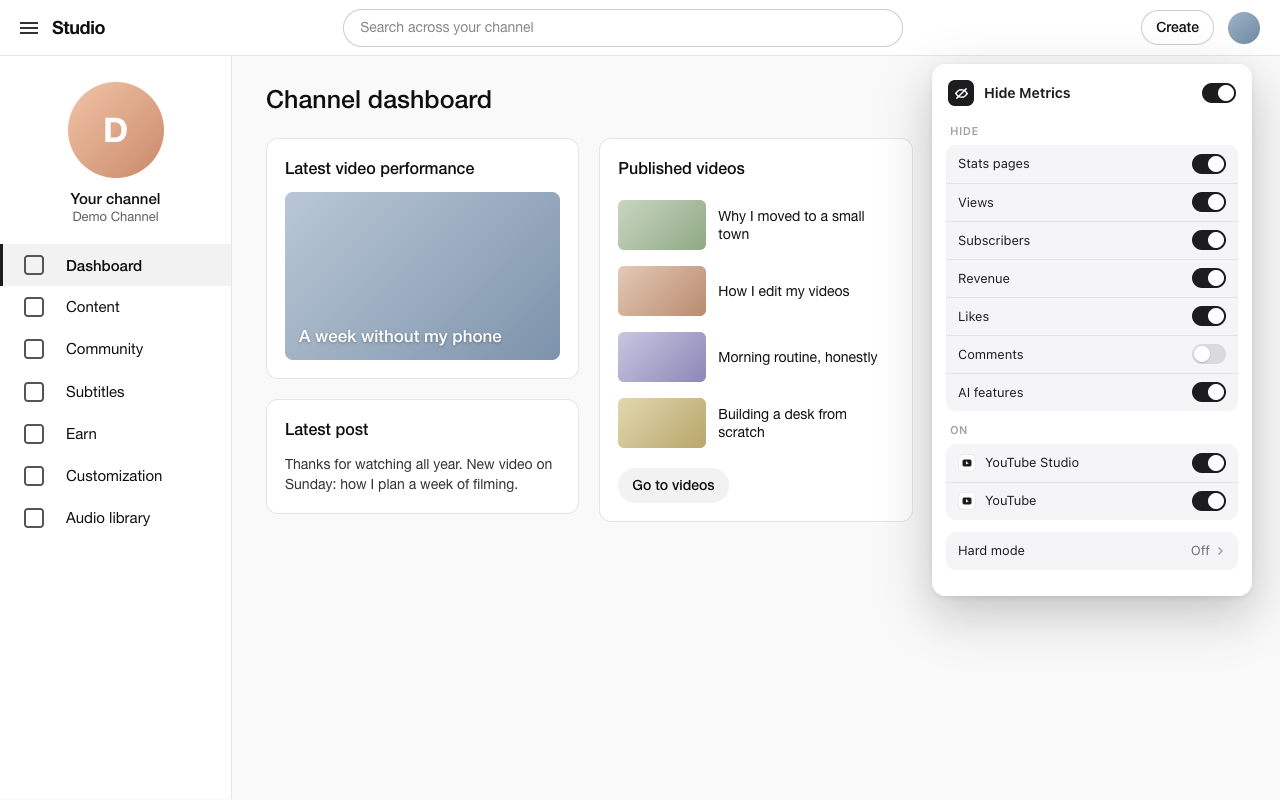
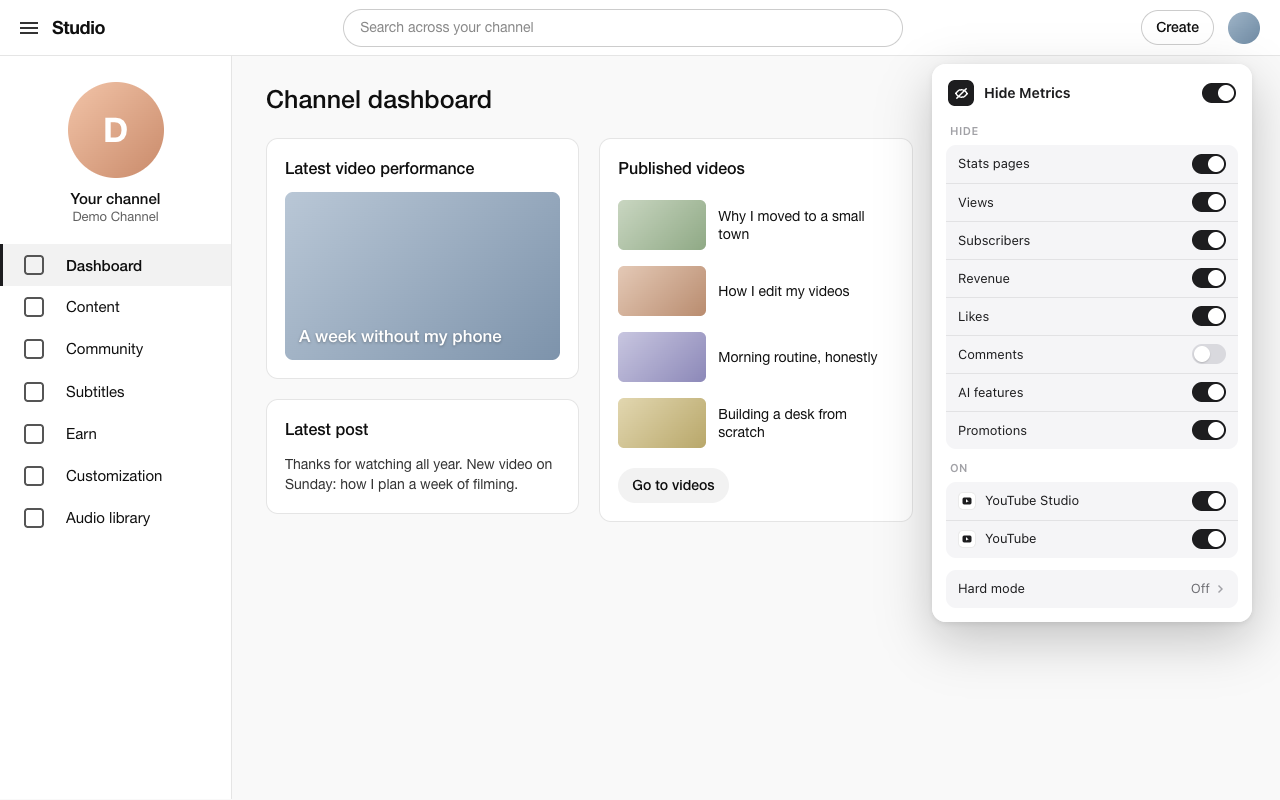
Insights follow your switches when Stats pages is off
With Stats pages off, Insights opens. Its cards carry no marker of what a
number is, only an English title, so cards are now hidden by title
('Views', 'Estimated revenue', 'Likes vs. dislikes'...) when the matching
switch is on (the author's choice; in other Studio languages they stay
visible). The realtime and live subscriber count pages follow Views and
Subscribers by their address. The Ask Studio card's empty frame now hides
with AI features.

Docs, store listing, privacy policy and screenshots updated for this and
for the Promotions switch.

diff --git a/src/sites/youtube-studio.js b/src/sites/youtube-studio.js
@@ -23,6 +23,7 @@
   ];
   // Latest post: likes and comments as two unlabeled rows.
   const postStats = 'ytcd-post-stats-item';
+  const isStatsPage = (url) => /\/(analytics|explore)(\/|$)/.test(url.pathname);
 
   HM.registerSite({
     id: 'youtubeStudio',
@@ -32,7 +33,33 @@
     backLabel: 'Back to Studio',
     // Insights (channel and per video, incl. Advanced mode) and the
     // realtime / live-count pages.
-    isStatsPage: (url) => /\/(analytics|explore)(\/|$)/.test(url.pathname),
+    isStatsPage,
+    // With Stats pages off, the realtime and live-count pages still follow
+    // Views and Subscribers: the URL says which one they are.
+    pageSwitch(url) {
+      if (!/\/explore(\/|$)/.test(url.pathname)) return null;
+      const type = url.searchParams.get('explore_type');
+      return type === 'SUBSCRIBERS' ? 'subscribers' : type === 'LATEST_ACTIVITY' ? 'views' : null;
+    },
+    // With Stats pages off, Insights cards follow the other switches by their
+    // title. The new Insights pages have no other marker of what a number is,
+    // so this reads the English titles (the author's choice): in other Studio
+    // languages nothing matches and Insights shows as is.
+    labels: {
+      where: isStatsPage,
+      card: 'yt-card-view-model',
+      title: '[class*="ShelfHeaderLayoutTitle"]',
+      words: {
+        views: [/\bviews?\b/i, /watch time/i, /watched/i, /video performance/i, /top content/i, /viewers/i,
+          /audience/i, /watch behavio/i, /demographics/i, /geographies/i, /impressions/i, /click-through/i,
+          /view duration/i, /traffic/i, /realtime/i, /^top (videos|shorts|posts|live)/i],
+        subscribers: [/subscri/i],
+        revenue: [/revenue/i, /earning/i, /make money/i, /\bad type/i, /\b[rc]pm\b/i, /memberships?/i,
+          /super (chat|thanks|stickers)/i, /shopping/i, /transactions/i],
+        likes: [/\blikes?\b/i],
+        comments: [/\bcomments?\b/i],
+      },
+    },
     selectors: {
       statsPages: [
         'ytcp-navigation-drawer li:has(a[href*="/analytics"])',
@@ -82,6 +109,7 @@
         'ytcp-sam-chat',
         'ytcp-creator-chat-entrypoint-button',
         'ytcp-ask-studio-card-view-model',
+        'yt-card-view-model:has(ytcp-ask-studio-card-view-model)', // its card frame on Insights
         '.ask-studio-container',
         'ytcp-metadata-suggestions-container',
         'ytcp-comment [id^="comment-smart-replies"]', // AI reply chips + their label

diff --git a/store/demo-studio.html b/store/demo-studio.html
@@ -55,8 +55,12 @@
   .btn { display: inline-block; margin-top: 12px; padding: 8px 14px; border-radius: 18px; background: #f2f2f2; font-size: 14px; font-weight: 500; }
   .post { font-size: 14px; color: #333; line-height: 1.45; }
   .muted { color: var(--yt-ink-2); font-size: 13px; }
-  .news { display: flex; gap: 12px; padding: 6px 0; }
-  .news i { width: 64px; height: 40px; border-radius: 6px; background: linear-gradient(135deg, #e8e8e8, #cfcfcf); flex: none; }
+  .cm { display: flex; gap: 10px; padding: 8px 0; }
+  .cm i { width: 28px; height: 28px; border-radius: 50%; flex: none; }
+  .cm b { font-size: 13px; font-weight: 500; color: var(--yt-ink-2); }
+  .a1 { background: linear-gradient(135deg, #b7d3c4, #7fa891); }
+  .a2 { background: linear-gradient(135deg, #e6c3c3, #b98585); }
+  .a3 { background: linear-gradient(135deg, #c7c9e6, #8b8fc0); }
   .popup { position: fixed; top: 64px; right: 28px; width: 320px; border: 0; border-radius: 14px; box-shadow: 0 18px 50px rgba(0,0,0,.22), 0 2px 6px rgba(0,0,0,.08); background: #fff; }
 
   /* The page that replaces Insights (same design as src/content/block.js). */
@@ -123,10 +127,11 @@
         </div>
         <div>
           <div class="card">
-            <h2>What's new in Studio</h2>
-            <div class="news"><i></i><div class="muted">New ways to add chapters to your videos</div></div>
-            <div class="news"><i></i><div class="muted">Updates to playlist settings</div></div>
-            <div class="news"><i></i><div class="muted">Tips for captions in more languages</div></div>
+            <h2>Comments</h2>
+            <div class="cm"><i class="a1"></i><div><b>@sam.makes</b><div class="post">The desk build was so calming to watch.</div></div></div>
+            <div class="cm"><i class="a2"></i><div><b>@lea_films</b><div class="post">Which camera did you use for the morning shots?</div></div></div>
+            <div class="cm"><i class="a3"></i><div><b>@noor</b><div class="post">Small town video made my week.</div></div></div>
+            <div class="btn">View more</div>
           </div>
         </div>
       </div>

diff --git a/src/content/labels.js b/src/content/labels.js
@@ -1,0 +1,46 @@
+// Hides cards by their visible title, for pages whose numbers carry no other
+// marker (Site.labels). Only runs on the pages the site names, and only when
+// that page isn't already replaced by the "hidden" notice. Cards are marked
+// with an attribute; one CSS rule hides marked cards.
+(function (HM) {
+  const cur = HM.current;
+  if (!cur || !cur.site.labels) return;
+  const site = cur.site;
+  const L = site.labels;
+  const ATTR = 'data-hide-metrics-label';
+
+  const style = document.createElement('style');
+  style.id = 'hide-metrics-label-style';
+  style.textContent = `[${ATTR}] { display: none !important; }`;
+
+  function apply() {
+    const url = new URL(location.href);
+    const hide = HM.hideFor(site, cur.effective, Date.now());
+    const on = L.where(url);
+    if (on && !style.isConnected) document.documentElement.appendChild(style);
+    for (const card of document.querySelectorAll(L.card)) {
+      const title = card.querySelector(L.title);
+      const kill = on && !!title && HM.labelSwitches(site, title.textContent).some((sw) => hide[sw]);
+      if (kill !== card.hasAttribute(ATTR)) card.toggleAttribute(ATTR, kill);
+    }
+  }
+
+  // Mutation callbacks run before the page paints, so a card is hidden before
+  // its numbers show. Skip the work entirely off the site's labelled pages.
+  const observer = new MutationObserver(() => {
+    if (L.where(new URL(location.href))) apply();
+  });
+  observer.observe(document.documentElement, { childList: true, subtree: true, characterData: true });
+
+  const nav = globalThis.navigation;
+  if (nav) nav.addEventListener('currententrychange', apply);
+  cur.onChange(apply);
+  apply();
+
+  (HM.cleanup = HM.cleanup || []).push(() => {
+    observer.disconnect();
+    if (nav) nav.removeEventListener('currententrychange', apply);
+    style.remove();
+    for (const card of document.querySelectorAll(`[${ATTR}]`)) card.removeAttribute(ATTR);
+  });
+})(globalThis.HM = globalThis.HM || {});

diff --git a/tests/sites.test.js b/tests/sites.test.js
@@ -87,3 +87,32 @@ test('Studio promo cards hide under Promotions', () => {
     assert.ok(studio.selectors.promotions.some((x) => x.includes(sel)), sel);
   }
 });
+
+// Insights cards carry only an English title (chosen by the author; other
+// Studio languages fall back to showing them). Titles below are Studio's own.
+test('Studio Insights card titles map to switches', () => {
+  const cases = {
+    views: ['Views', 'Watch time (hours)', '48 hour views', 'Watched right now', 'Recent video performance', 'Top content',
+      'How viewers find your content', 'How viewers found this video', 'Monthly audience', 'Watch behavior', 'Top demographics',
+      'Top geographies', 'Impressions', 'Click-through rate', 'Audience retention', 'Average view duration'],
+    subscribers: ['Subscribers', 'Total subscribers'],
+    revenue: ['Estimated revenue', 'Top earning', 'Ways of earning', 'Monthly revenue', 'How you make money', 'Top ad type', 'RPM'],
+    likes: ['Likes vs. dislikes'],
+  };
+  for (const [sw, titles] of Object.entries(cases)) {
+    for (const t of titles) assert.ok(HM.labelSwitches(studio, t).includes(sw), `${t} → ${sw}`);
+  }
+  assert.deepEqual(HM.labelSwitches(studio, 'Overview'), []);
+  assert.deepEqual(HM.labelSwitches(studio, 'Weergaven'), []);
+});
+
+test('Studio realtime and live-count pages are blocked by their own switch', () => {
+  const at = (q) => new URL(`https://studio.youtube.com/channel/${CH}/explore?entity_type=CHANNEL&entity_id=${CH}&time_period=4_weeks&explore_type=${q}`);
+  assert.equal(studio.pageSwitch(at('SUBSCRIBERS')), 'subscribers');
+  assert.equal(studio.pageSwitch(at('LATEST_ACTIVITY')), 'views');
+  assert.equal(studio.pageSwitch(new URL(`https://studio.youtube.com/channel/${CH}/analytics/hub_overview`)), null);
+});
+
+test('Insights AI card disappears with its frame', () => {
+  assert.ok(studio.selectors.aiFeatures.includes('yt-card-view-model:has(ytcp-ask-studio-card-view-model)'));
+});

diff --git a/src/content/registry.js b/src/content/registry.js
@@ -5,6 +5,9 @@
 //   isStatsPage(url: URL) → boolean,
 //   selectors: { [switchId]: string[] },              // hidden when that switch is on
 //   whenAll?: [{ switches: switchId[], selectors }],  // hidden when all listed switches are on
+//   pageSwitch?(url: URL) → switchId | null,          // whole page blocked when that switch is on
+//   labels?: { where(url) → bool, card, title, words: { [switchId]: RegExp[] } },
+//            // cards whose visible title matches a hidden switch's words are hidden
 // }
 (function (HM) {
   const sites = [];
@@ -58,6 +61,15 @@
     return effective.hide || {};
   }
 
+  // Which switches a visible label belongs to, for sites whose pages carry no
+  // other marker (see Site.labels). [] when the site has no labels or none match.
+  function labelSwitches(site, text) {
+    const words = site.labels && site.labels.words;
+    if (!words) return [];
+    const t = String(text || '').trim();
+    return Object.keys(words).filter((sw) => words[sw].some((re) => re.test(t)));
+  }
+
   // For DevTools: how many elements each selector matches on this page.
   // count -1 = the selector itself is invalid. 0 on a page that should have
   // the thing usually means the site changed its markup.
@@ -73,5 +85,5 @@
     });
   }
 
-  Object.assign(HM, { registerSite, siteFor, buildCss, allSwitchesOn, hideFor, report });
+  Object.assign(HM, { registerSite, siteFor, buildCss, allSwitchesOn, hideFor, labelSwitches, report });
 })(globalThis.HM = globalThis.HM || {});

diff --git a/tests/registry.test.js b/tests/registry.test.js
@@ -69,3 +69,12 @@ test('hideFor: what a page should hide right now', () => {
   // check-in should be over but the worker hasn't said so yet: hide everything, not nothing
   assert.deepEqual(HM.hideFor(site, open, T), { views: true, likes: true });
 });
+
+test('labelSwitches: which switches a visible label belongs to', () => {
+  const labelled = { ...site, labels: { card: '.card', title: '.t', words: { views: [/^views$/i, /watch time/i], likes: [/like/i] } } };
+  assert.deepEqual(HM.labelSwitches(labelled, '  Views '), ['views']);
+  assert.deepEqual(HM.labelSwitches(labelled, 'Watch time (hours)'), ['views']);
+  assert.deepEqual(HM.labelSwitches(labelled, 'Likes vs. dislikes'), ['likes']);
+  assert.deepEqual(HM.labelSwitches(labelled, 'Weergaven'), []); // other languages: no match
+  assert.deepEqual(HM.labelSwitches(site, 'Views'), []); // a site without labels
+});

diff --git a/src/content/block.js b/src/content/block.js
@@ -99,7 +99,11 @@
 
   function shouldBlock() {
     // Before settings load (or while a check-in is overdue), assume on.
-    return !!HM.hideFor(site, cur.effective, Date.now()).statsPages && site.isStatsPage(new URL(location.href));
+    const hide = HM.hideFor(site, cur.effective, Date.now());
+    const url = new URL(location.href);
+    if (hide.statsPages && site.isStatsPage(url)) return true;
+    const sw = site.pageSwitch ? site.pageSwitch(url) : null;
+    return !!(sw && hide[sw]);
   }
 
   function check() {

diff --git a/README.md b/README.md
@@ -9,7 +9,7 @@ pages and AI prompts. Hidden things are simply gone: no grey bars, no blur, no
 
 ## What it hides
 
-Seven switches, each meaning the same thing on every site:
+Eight switches, each meaning the same thing on every site:
 
 | Switch | YouTube Studio | YouTube |
 |---|---|---|
@@ -20,20 +20,26 @@ Seven switches, each meaning the same thing on every site:
 | **Likes** | Like counts on videos, posts and comments | Like counts on videos, Shorts and comments |
 | **Comments** *(off by default)* | Comment counts, Comments card, the comments inbox | Comment section and counts |
 | **AI features** | Ask Studio, "Catch me up", AI suggestions, AI replies | "Ask" panel where present |
+| **Promotions** | YouTube's own dashboard cards: Ideas for you (brand deals), Creator Insider, What's new in Studio | — |
 
 Under **On**, each site has its own switch. The switch at the top of the popup
 pauses everything.
 
 Where a number shares a line with other text and can't be separated by the
-page's structure, the whole line is hidden. Nothing matches on words, so it
-works in any language.
+page's structure, the whole line is hidden. Everything is matched by page
+structure, so it works in any language, with one exception: with **Stats
+pages** off, Insights opens, and its cards follow the other switches by their
+English title ("Views", "Estimated revenue"…), because Insights has no other
+marker of what a number is. In other Studio languages those cards stay
+visible. The realtime and live subscriber count pages follow Views and
+Subscribers by their address.
 
 ## Hard mode
 
 Lock your choices until a date and time. While locked, switches only turn on,
 the lock can only be extended, and the weekly check-in can't be moved. An
 optional **weekly check-in** (for example Sunday 10:00 for 30 minutes) brings
-the numbers back for that window; AI features stay hidden.
+the numbers back for that window; AI features and Promotions stay hidden.
 
 When you lock, Chrome asks for the optional "tabs" permission ("Read your
 browsing history"). With it, opening the browser's extensions page during a
@@ -69,7 +75,7 @@ Layout:
   check-ins; the extensions-page guard.
 - `src/content/` — `hide.js` (one `<style>` built from the switches, injected
   at `document_start` so nothing flashes), `block.js` (the page that replaces
-  stats pages), `registry.js`.
+  stats pages), `labels.js` (Insights cards by title), `registry.js`.
 - `src/sites/` — **everything site-specific**: one file per site with its URL
   rules and selectors per switch. A new site is a new file here plus a row
   under "On".

diff --git a/STORE_LISTING.md b/STORE_LISTING.md
@@ -38,19 +38,21 @@ Choose what to hide:
 • Likes
 • Comments (counts and the comment section; off by default)
 • AI features: Ask Studio, "Catch me up", AI suggestions and summaries
+• Promotions: YouTube's own cards in Studio, like brand deals and Creator Insider
 
 Choose where:
 • YouTube Studio
 • YouTube (everyone's videos, not just your own)
 
 Hidden things are simply gone: no grey bars, no blur, no "show anyway" button.
-Open a stats page and you'll see a quiet page saying it's hidden.
+Open a stats page and you'll see a quiet page saying it's hidden. Or let
+Insights open and hide just the numbers you choose (English Studio).
 
 HARD MODE
 Lock your choices until a date and time. While locked, switches can only be
 turned on, and the lock can only be extended. Add an optional weekly check-in,
 for example Sunday 10:00 for 30 minutes, when your numbers come back for a
-while (AI features stay hidden).
+while (AI features and promotions stay hidden).
 
 PRIVATE BY DESIGN
 No account, no server, no analytics. Settings stay in your browser on this
@@ -75,8 +77,9 @@ Not affiliated with YouTube or Google.
 - **alarms** — End a hard-mode lock and open/close the weekly check-in at the
   chosen times, even when no YouTube tab is open.
 - **Host: studio.youtube.com** — Hide metrics, Insights pages and AI prompts in
-  YouTube Studio with CSS and a full-page notice. Only the page address is
-  checked (to recognise stats pages); nothing is stored or sent.
+  YouTube Studio with CSS and a full-page notice. The page address is checked
+  to recognise stats pages, and on Insights pages the visible card titles are
+  read to match them to the user's switches; nothing is stored or sent.
 - **Host: www.youtube.com** — Hide view, subscriber, like and comment counts on
   YouTube pages with CSS. Nothing is stored or sent.
 - **Optional: tabs** — Requested only when the user turns on hard mode. Used to

diff --git a/PRIVACY.md b/PRIVACY.md
@@ -1,6 +1,6 @@
 # Privacy Policy — Hide Metrics
 
-_Last updated: 2026-11-12_
+_Last updated: 2026-11-13_
 
 Hide Metrics is a browser extension that hides numbers (views, subscribers,
 likes, revenue, comments), stats pages and AI prompts on YouTube Studio
@@ -17,7 +17,7 @@ is sent to the developer or to anyone else.
 Your settings are stored only in your browser with `chrome.storage.local`:
 
 - which switches are on (Stats pages, Views, Subscribers, Revenue, Likes,
-  Comments, AI features) and on which sites;
+  Comments, AI features, Promotions) and on which sites;
 - hard mode, if you use it: when the lock ends and your weekly check-in time.
 
 These settings stay on the device where you set them. They are not synced and
@@ -36,9 +36,9 @@ browser, by hiding parts of them.
   time.
 - Access to `studio.youtube.com` and `www.youtube.com` — to hide numbers,
   stats pages and AI prompts on those two sites. It looks only at the page
-  address (to recognise stats pages) and at the page's layout (to know what to
-  hide); it doesn't read or keep what you watch, write or see, and sends
-  nothing anywhere.
+  address (to recognise stats pages), at the page's layout (to know what to
+  hide) and, on Studio's Insights pages, at the card titles (like "Views") to
+  match them to your switches. It doesn't keep or send anything it sees.
 - `tabs` (optional, asked only when you turn on hard mode) — lets the
   extension notice when the browser's extensions page is opened during a lock
   and show a "locked" page instead. Chrome describes this permission as
